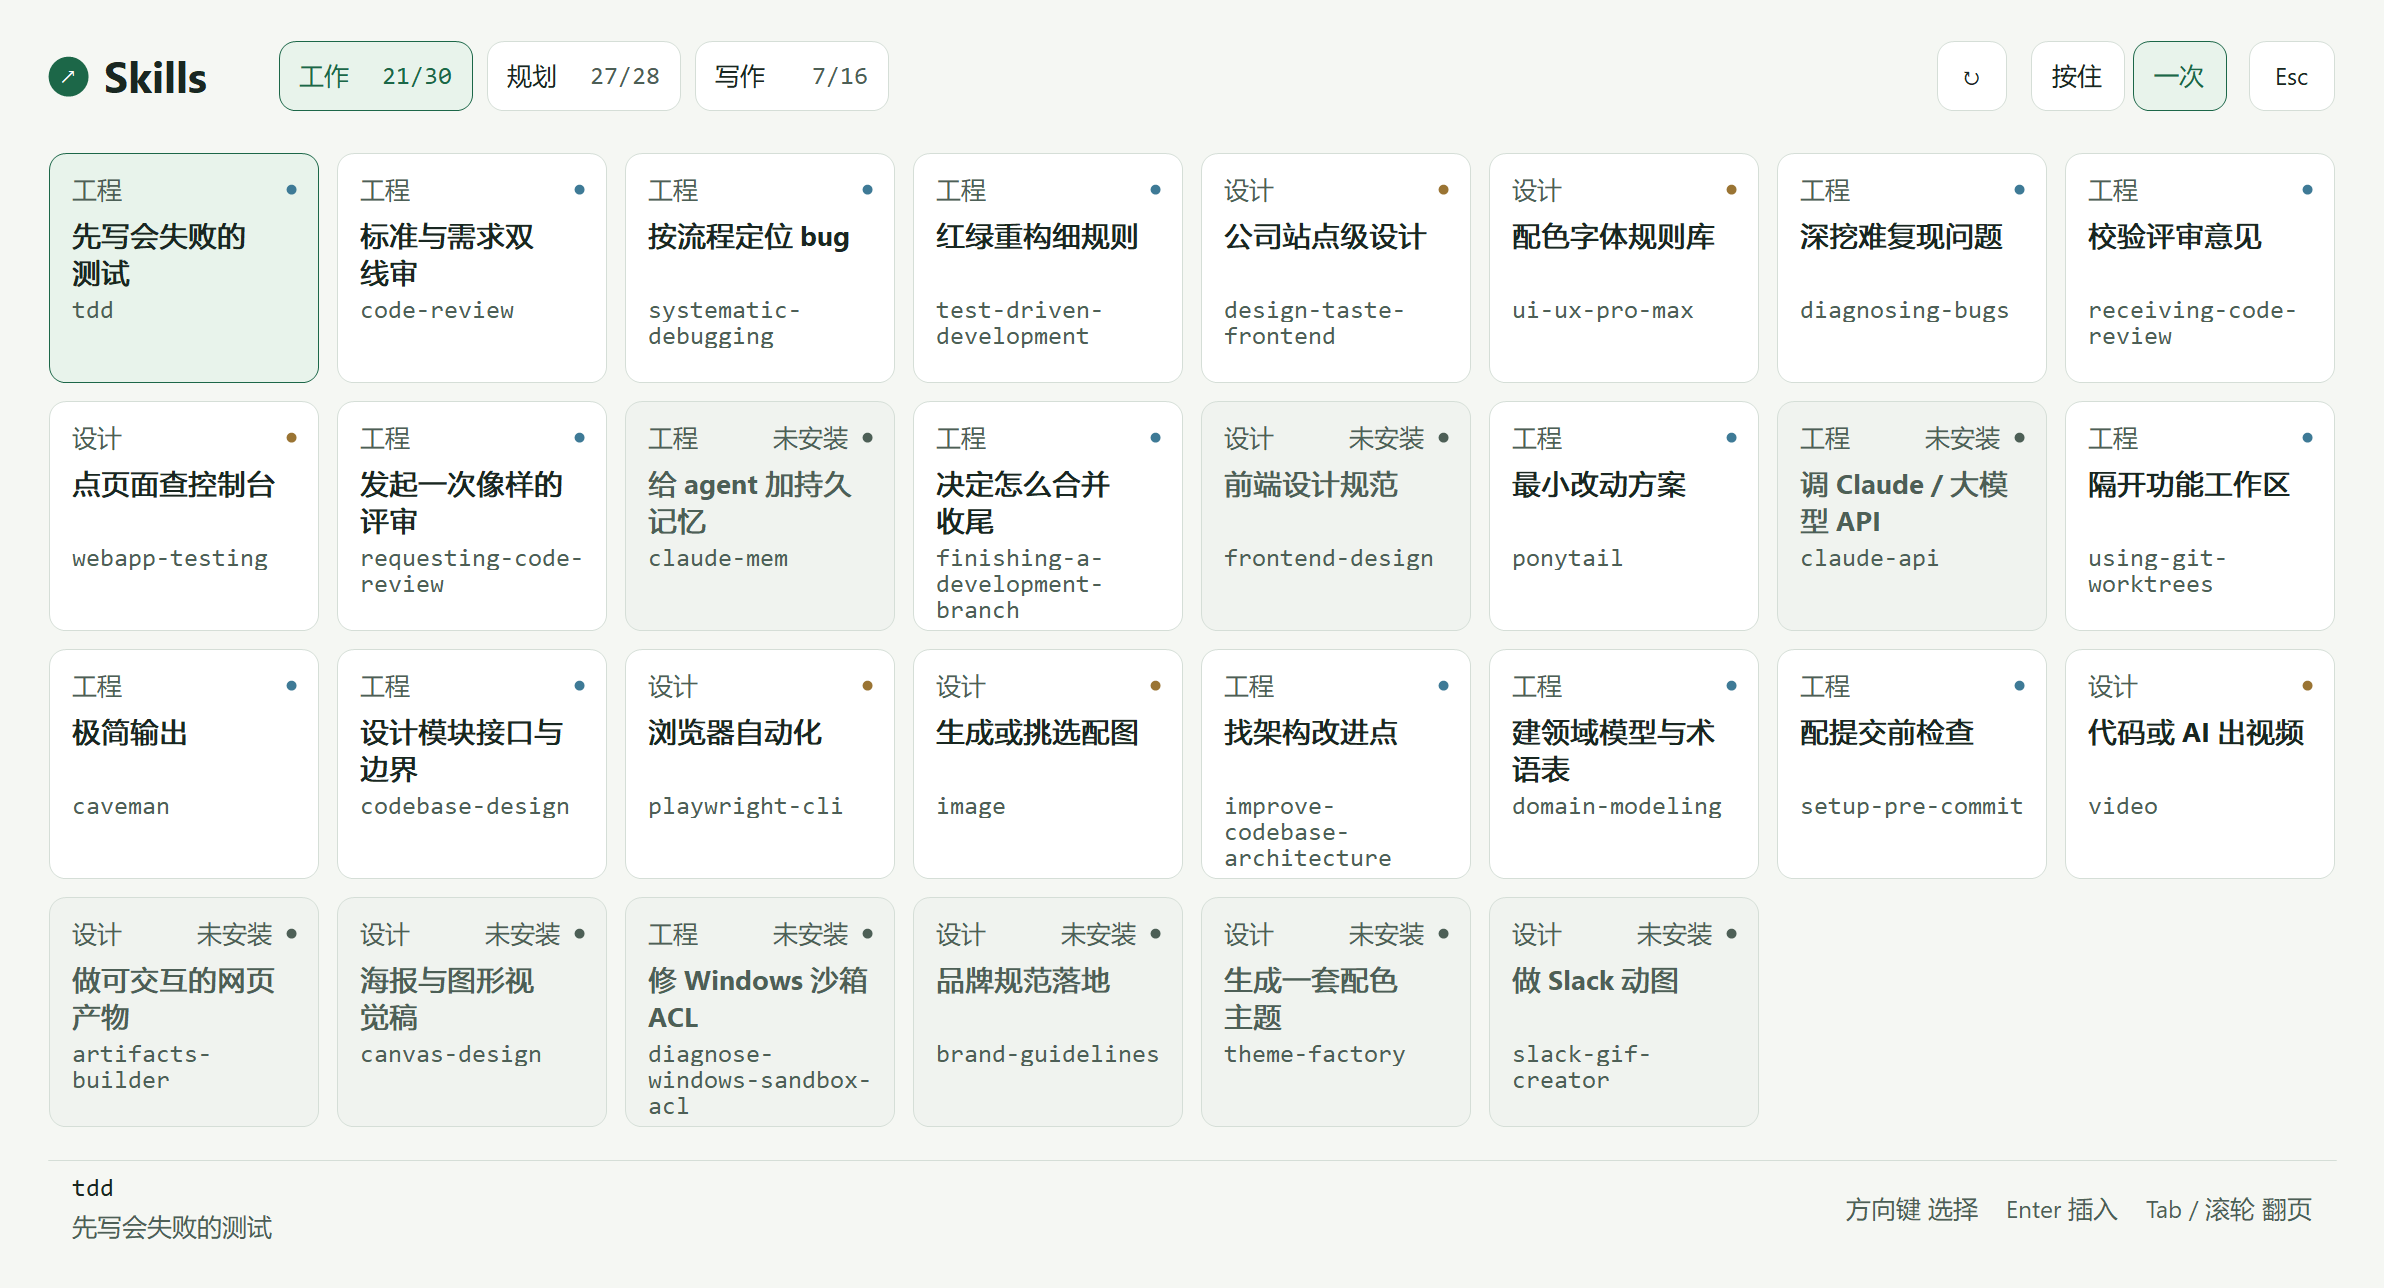
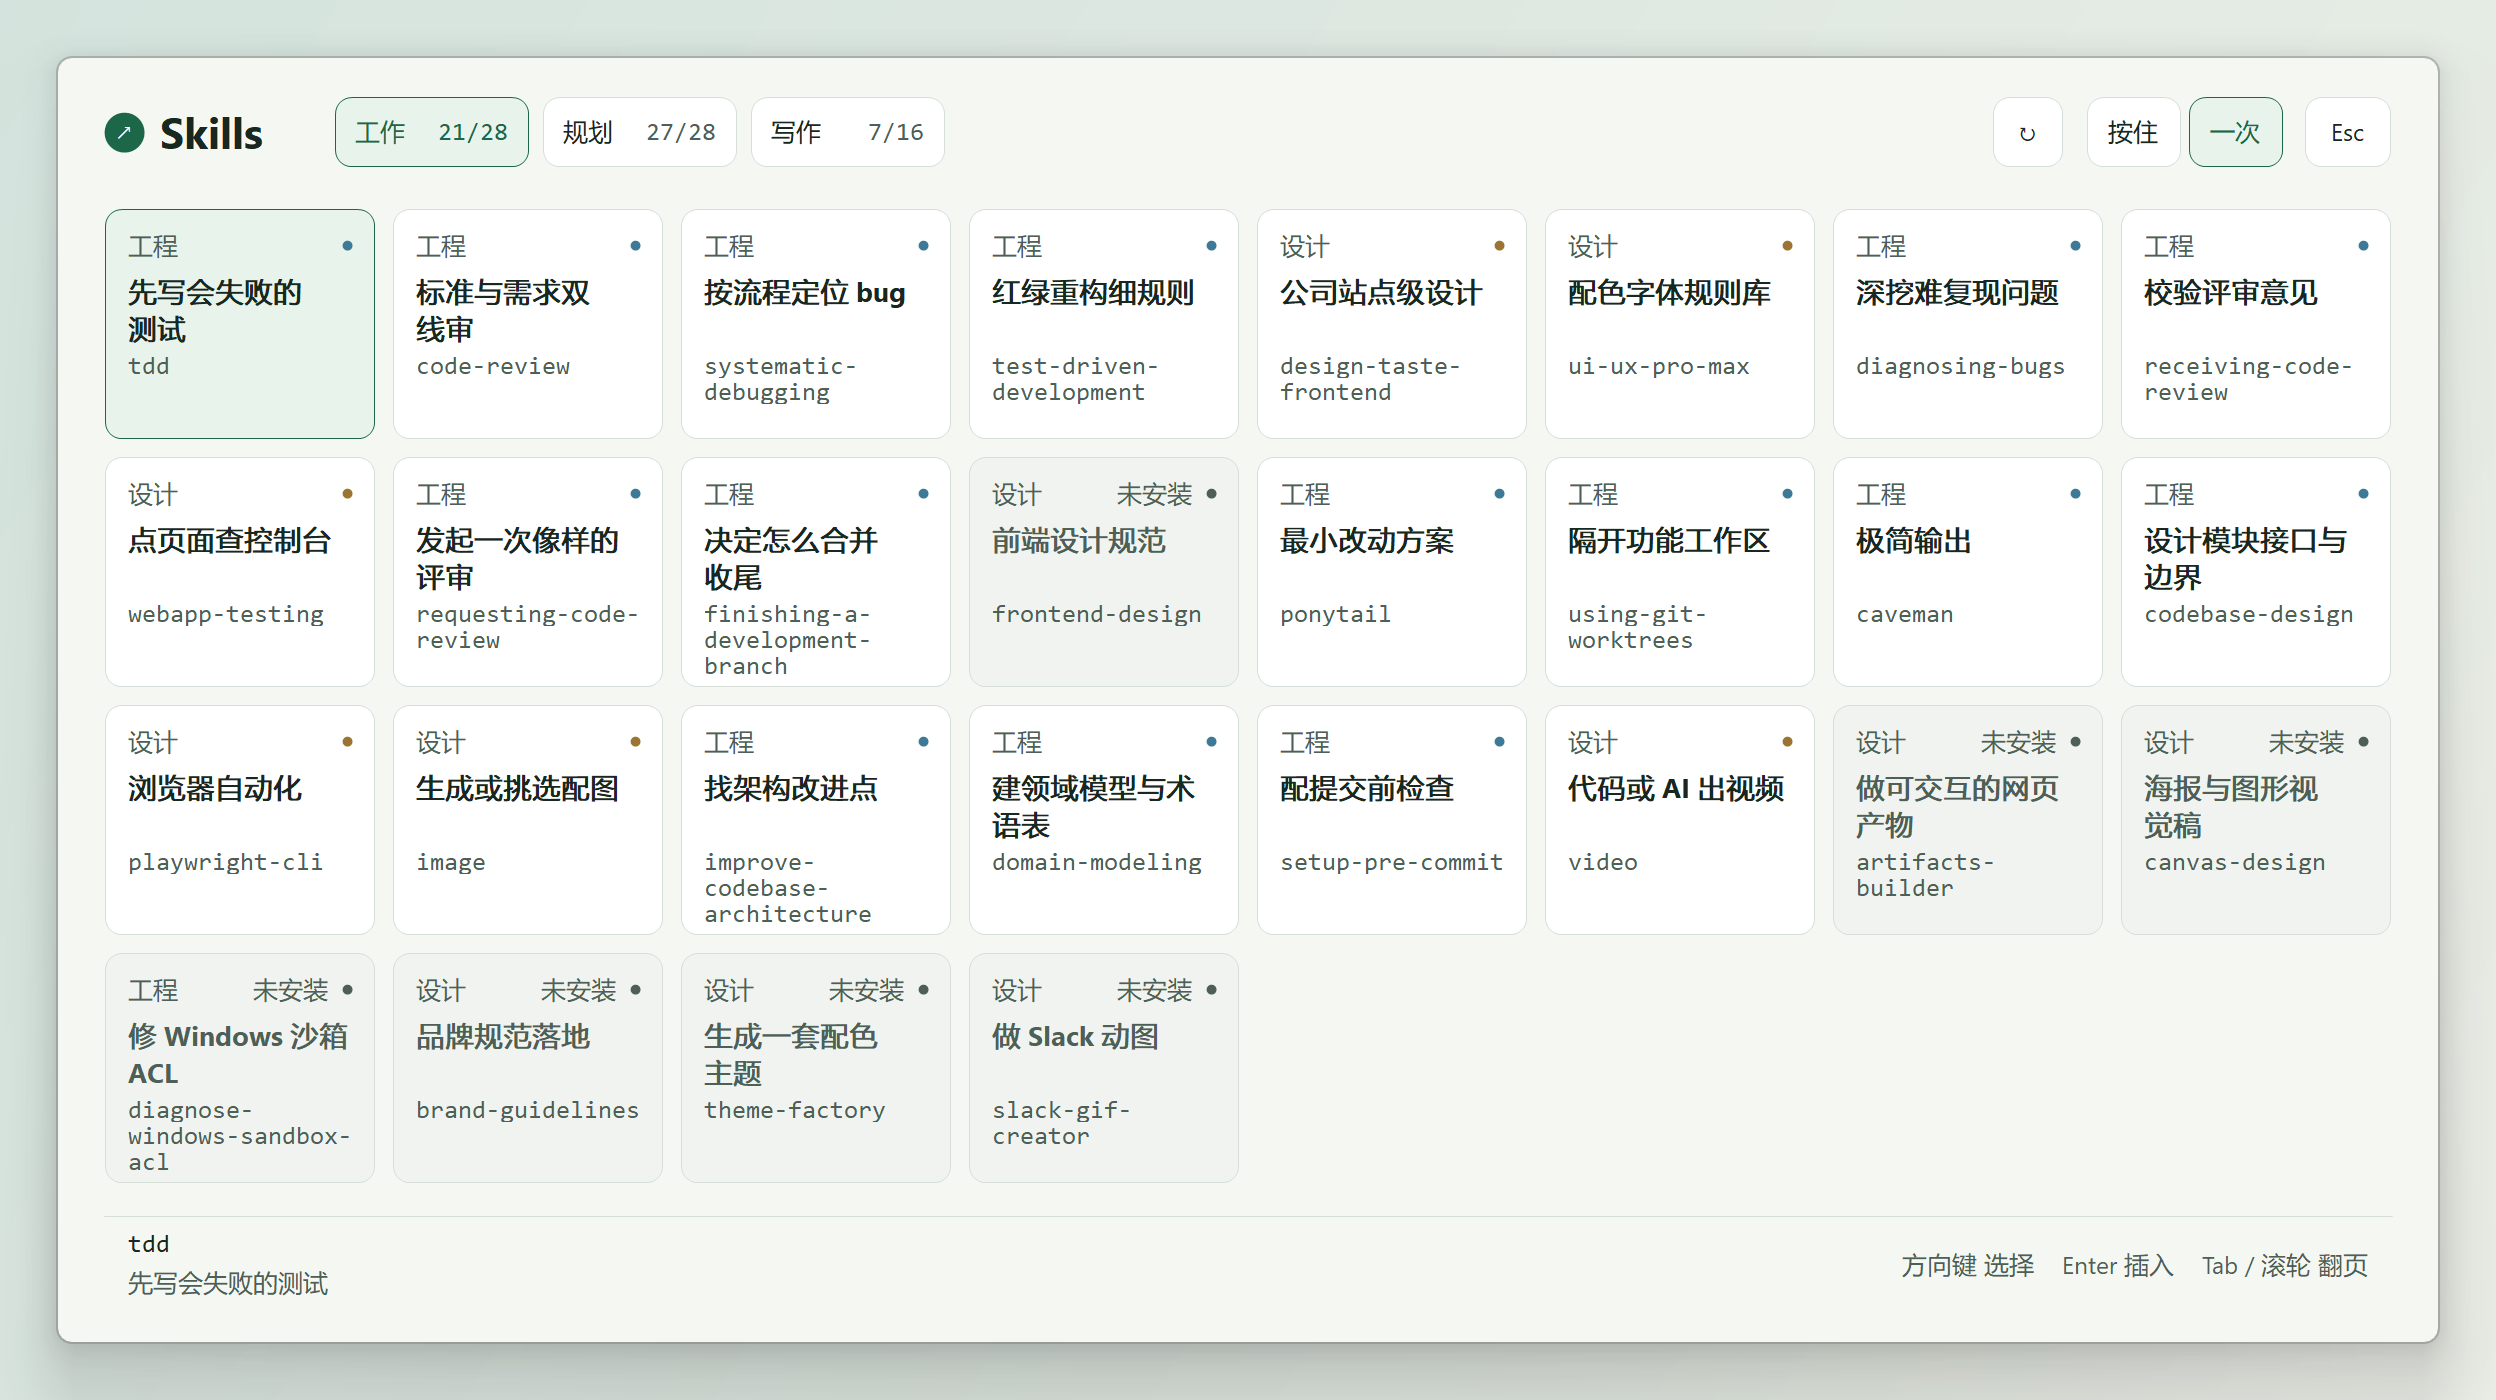
换成干净的产品截图；README 改成「下载 exe 双击」两步；打 tag 自动发 Release

Changed region(s): [[0.0, 0.0, 0.9933, 1.0], [0.6208, 0.8075, 0.6829, 0.8385], [0.6208, 0.4348, 0.6829, 0.4658]]

diff --git a/README.md b/README.md
@@ -1,47 +1,60 @@
 # Skill Peek
 
-Skill Peek 是一个 Windows 托盘工具。按全局热键打开技能面板，在工作、规划和写作三页里快速找到需要的技能。每个键显示技能名、分类和一句用途。
+按一个热键，在任何窗口上唤起一块技能面板：72 个技能分三页，常用的排在左上角，没装的置灰。方向键选，回车把 `@skill` 粘回你刚才的输入框。
 
 ![Skill Peek 技能面板](docs/screenshot.png)
 
-## 使用
+## 下载就能用
 
-从 `dist` 双击 `SkillPeek.exe`（首次运行前先跑一次 `build.ps1`）。首次使用的热键是 `Ctrl+Shift+Space`，可在托盘右键菜单里换成 `Alt` + 反引号等预设。
+1. 打开 [Releases](../../releases)，下载最新版里的 **`SkillPeek.exe`**
+2. 双击运行
+
+就这两步。**一个 33 KB 的 exe，不用安装、没有依赖、不联网**（系统自带的 .NET Framework 4.x 之外什么都不需要）。
+
+启动后没有窗口，只有托盘图标。默认热键 `Ctrl+Shift+Space`，托盘右键可以换成 `Alt` + 反引号等预设。
+
+> 为什么默认不是 `Ctrl+Space`：中文 Windows 上那个组合归输入法（搜狗、微软拼音都用它切中英文），热键注册会"成功"但按键根本到不了程序。
+
+## 用法
 
 | 操作 | 结果 |
 |---|---|
-| 全局热键 | 唤起或收起面板 |
-| 滚轮、`Tab`、`Shift+Tab` | 正向或反向翻页，也可直接点页签 |
-| 方向键、`Home`、`End` | 移动选中项，底部显示完整技能名和用途 |
-| 鼠标悬停 | 选中技能 |
-| 单击技能或按 `Enter` | 复制 `@skill`，收起面板，并默认粘贴到原窗口 |
-| `Esc` | 收起面板 |
-| 右上角 **↻** | 重新扫描已安装技能 |
+| 全局热键 | 唤起 / 收起 |
+| 滚轮、`Tab`、`Shift+Tab` | 三页之间切换，也可直接点页签 |
+| 方向键、`Home`、`End` | 移动选中项 |
+| `Enter` 或单击 | 复制 `@skill`，收起面板，粘贴回原窗口 |
+| `Esc` | 收起 |
+| 右上角 **↻** | 重新扫描本地已安装的技能 |
 
-右上角可切换 **按住** 和 **一次**。按住模式在热键松开后收起。托盘菜单可开启开机自启，或把回车改为仅复制。直接粘贴使用 `Ctrl+V`，终端等采用其他粘贴键的应用可以使用仅复制模式。
+右上角可切换 **按住 / 一次**：按住模式下热键一松就收起。托盘菜单里可以开开机自启，或把回车改成"只复制不粘贴"（终端这类 `Ctrl+V` 不是粘贴的地方用）。
 
-## 技能与配置
+## 自己的技能清单
 
-面板保留 72 个固定技能，按常用程度排列。每次唤起都会扫描配置目录的一级子目录。如果扫到技能目录，未匹配的技能会置灰。扫描结果为空时，所有键可用作速查。
-
-配置保存在 `%APPDATA%\SkillPeek\settings.ini`。已有配置会继续生效。
+面板每次唤起都会扫一遍配置目录下的一级子目录，扫到的技能才亮，其余置灰。路径写在配置里：
 
 ```ini
+; %APPDATA%\SkillPeek\settings.ini
 mode=once
-hotkey=Alt+`
+hotkey=Ctrl+Shift+Space
 paste=1
 skills=%USERPROFILE%\.dsh\skills;%USERPROFILE%\.claude\skills
 ```
 
-要调整技能或顺序，编辑 `ui/skills.tsv` 后重新构建。每行依次填写页签、技能名、分类、用途和分类色，用 Tab 分隔。
+要改清单本身（加技能、改顺序、改分类色），编辑 `ui/skills.tsv`，每行五列用 Tab 分隔：
 
-## 构建
+```
+工作	tdd	工程	先写会失败的测试	#3E7A96
+```
+
+**行的顺序就是显示顺序**，越靠前越常用，也就越靠近左上角。改完重新构建即可。
+
+## 自己构建
 
 ```powershell
 powershell -ExecutionPolicy Bypass -File .\build.ps1
 ```
 
-产物为 `dist/SkillPeek.exe`。构建使用 Windows 自带的 .NET Framework 编译器，并将技能数据嵌入可执行文件。运行时使用原生 WinForms，首次打开时创建面板控件。
+不需要装 .NET SDK——用 Windows 自带的 `csc.exe` 编译，技能数据作为资源嵌进 exe。产物是 `dist/SkillPeek.exe`，单文件。
 
 ## 许可
 
